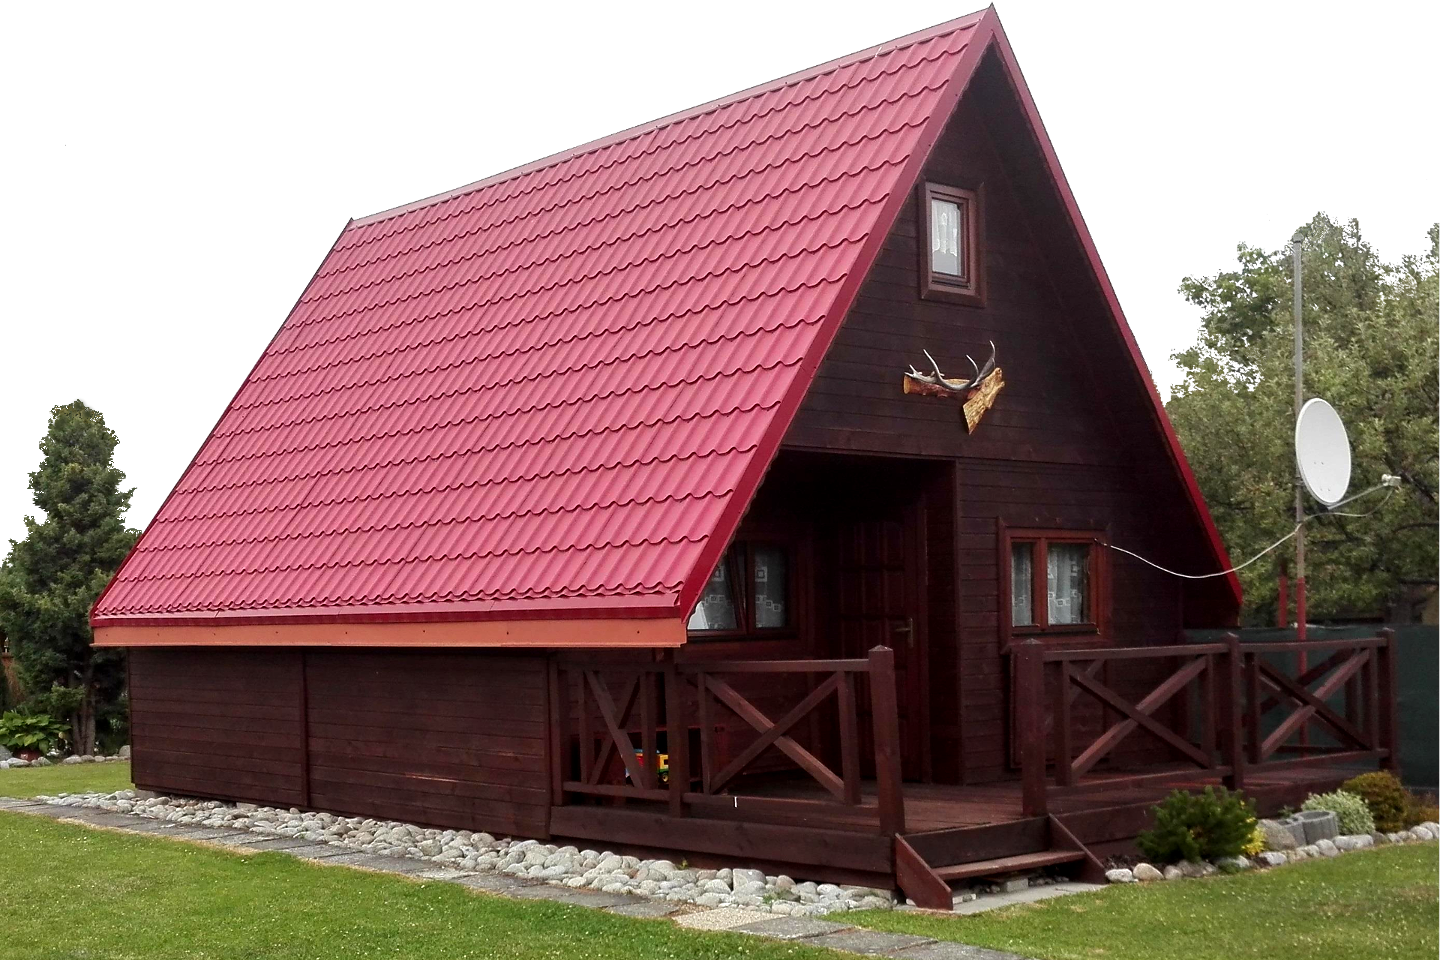
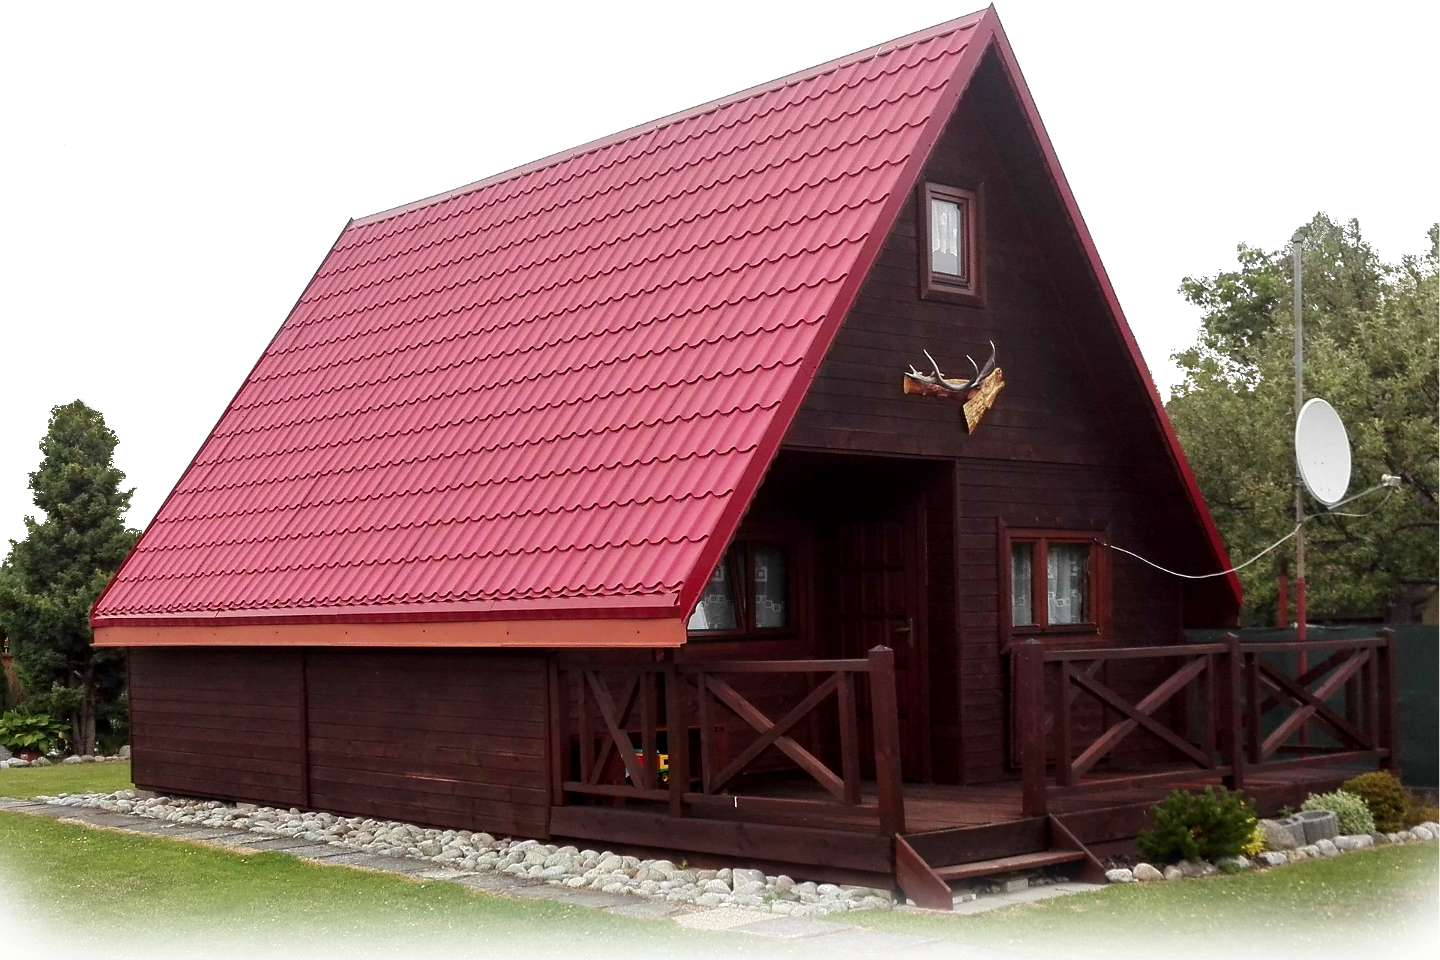
Changed: styles - images, container margin; Added: Gallery Images

Changed region(s): [[0.0, 0.875, 1.0, 1.0]]

diff --git a/index.html b/index.html
@@ -52,7 +52,7 @@
         </div>
 
         <div class="col-lg-8 col-lg-offset-2 col-md-10 col-md-offset-1 col-sm-12 inner">
-          <h2>Stručne o Chatke Katke</h2>
+          <h2>Stručne o Chatke Katka</h2>
           <h4>Chatka Katka je celodrevená chata situovaná v&nbsp;okrajovej časti Liptovského Mikuláša len 4&nbsp;km od
             <a href="http://www.tatralandia.sk/" target="blank">Aquaparku&nbsp;Tatralandia</a> a&nbsp;13&nbsp;km od
             <a href="http://www.besenova.com/" target="blank">Thermalparku&nbsp;Bešeňová</a>. Do centra mesta je to 10&nbsp;minút chôdzou. V&nbsp;okolí Liptovského Mikuláša
@@ -356,30 +356,30 @@
             <div class="my-gallery" itemscope itemtype="http://schema.org/ImageGallery">
 
               <figure itemprop="associatedMedia" itemscope itemtype="http://schema.org/ImageObject">
-                <a href="https://farm3.staticflickr.com/2567/5697107145_a4c2eaa0cd_o.jpg" itemprop="contentUrl" data-size="1024x1024">
-                  <img src="https://farm3.staticflickr.com/2567/5697107145_3c27ff3cd1_m.jpg" itemprop="thumbnail" alt="Image description" />
+                <a href="Images/Gallery/DSC_0002.jpg" itemprop="contentUrl" data-size="1504x1000">
+                  <img src="Images/Gallery/DSC_0002_tn.jpg" itemprop="thumbnail" alt="Image description" />
                 </a>
                 <figcaption itemprop="caption description">Image caption 1</figcaption>
 
               </figure>
 
               <figure itemprop="associatedMedia" itemscope itemtype="http://schema.org/ImageObject">
-                <a href="https://farm2.staticflickr.com/1043/5186867718_06b2e9e551_b.jpg" itemprop="contentUrl" data-size="964x1024">
-                  <img src="https://farm2.staticflickr.com/1043/5186867718_06b2e9e551_m.jpg" itemprop="thumbnail" alt="Image description" />
+                <a href="Images/Gallery/DSC_0005.jpg" itemprop="contentUrl" data-size="1504x1000">
+                  <img src="Images/Gallery/DSC_0005_tn.jpg" itemprop="thumbnail" alt="Image description" />
                 </a>
                 <figcaption itemprop="caption description">Image caption 2</figcaption>
               </figure>
 
               <figure itemprop="associatedMedia" itemscope itemtype="http://schema.org/ImageObject">
-                <a href="https://farm7.staticflickr.com/6175/6176698785_7dee72237e_b.jpg" itemprop="contentUrl" data-size="1024x683">
-                  <img src="https://farm7.staticflickr.com/6175/6176698785_7dee72237e_m.jpg" itemprop="thumbnail" alt="Image description" />
+                <a href="Images/Gallery/DSC_0013.jpg" itemprop="contentUrl" data-size="1504x1000">
+                  <img src="Images/Gallery/DSC_0013_tn.jpg" itemprop="thumbnail" alt="Image description" />
                 </a>
                 <figcaption itemprop="caption description">Image caption 3</figcaption>
               </figure>
 
               <figure itemprop="associatedMedia" itemscope itemtype="http://schema.org/ImageObject">
-                <a href="https://farm6.staticflickr.com/5023/5578283926_822e5e5791_b.jpg" itemprop="contentUrl" data-size="1024x768">
-                  <img src="https://farm6.staticflickr.com/5023/5578283926_822e5e5791_m.jpg" itemprop="thumbnail" alt="Image description" />
+                <a href="Images/Gallery/DSC_0018.jpg" itemprop="contentUrl" data-size="1504x1000">
+                  <img src="Images/Gallery/DSC_0018_tn.jpg" itemprop="thumbnail" alt="Image description" />
                 </a>
                 <figcaption itemprop="caption description">Image caption 4</figcaption>
               </figure>

diff --git a/scripts/main.js b/scripts/main.js
@@ -86,7 +86,7 @@ $().ready(function () {
     });
     var datetime = new Date();
     var resolver = new ImageNameResolver(datetime);
-    $('body').css({ 'background': 'url(' + resolver.getFullPath() + ')  no-repeat', 'background-size': '100% auto', 'background-color': '#545f21' });
+    $('body').css({ 'background': 'url(' + resolver.getFullPath() + ')  no-repeat', 'background-size': '100% auto', 'background-color': '#738535' });
 
     var questionButton = $('#questionButton');
     questionButton.one('click', function () {

diff --git a/styles.css b/styles.css
@@ -78,8 +78,9 @@ h3{
     color: white;
     box-shadow: 10px 10px 5px rgba(6, 1, 1, 0.43);
     padding: 40px;
-    padding-bottom: 0px;
+    padding-bottom: 15px;
     /* padding-top: 0px; */
+    margin-bottom: 15px;
 }
 
 .innerMenu{
